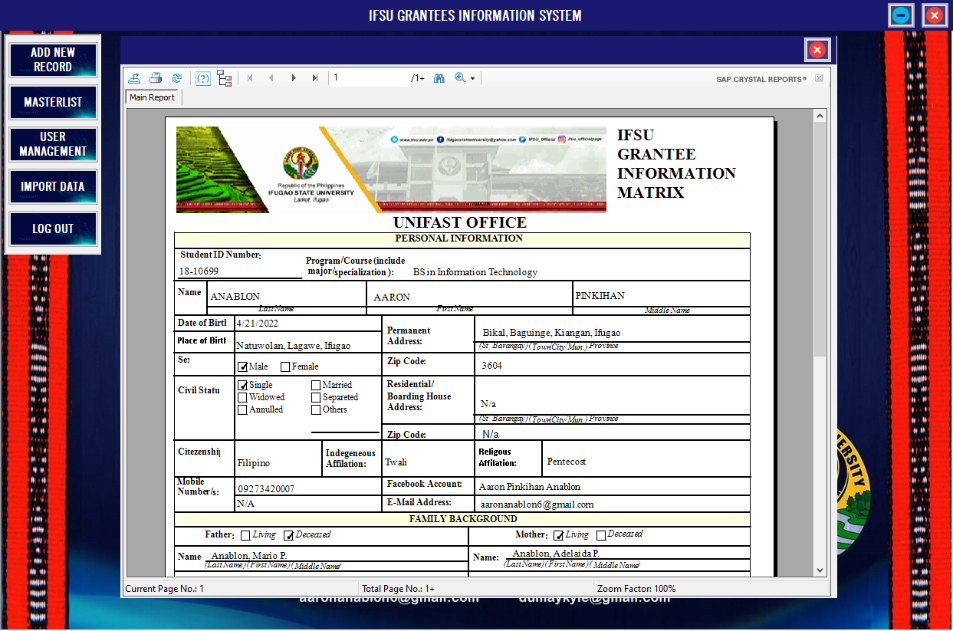
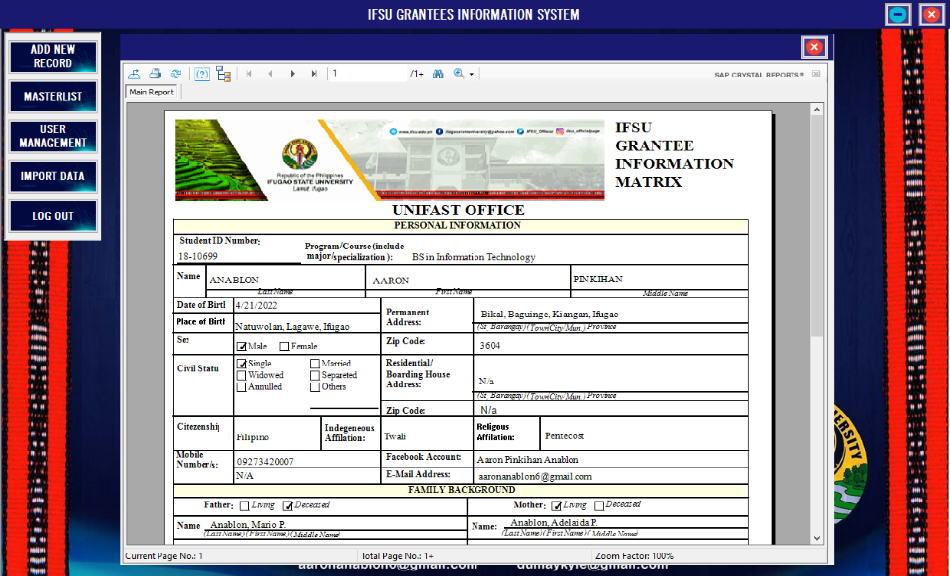
Edited the images

diff --git a/src/helpers/ProjectCards.js b/src/helpers/ProjectCards.js
@@ -3,6 +3,9 @@ import ecommerce from '../../public/Ecommerce.png'
 import matrix from '../../public/Matrix.png'
 import phoneEcommerce from '../../public/phoneEcommerce.png'
 import tabletEcommerce from '../../public/tabletEcommerce.png'
+import DesktopAiChatbot from '../../public/DesktopAiChatbot.png'
+import phoneAiChatbot from '../../public/phoneAiChatbot.png'
+import tabletAiChatbot from '../../public/tabletAiChatbot.png'
 
 const ProjectCards = [
     {
@@ -30,28 +33,12 @@ const ProjectCards = [
         desc: 'Grantee Information Matrix System. Developed using C# with different features including easy access of student files and support to printing hard copies of credentials. I developed this furing my OJT. The Application only supports Desktop.'
     },
     {
-        id: 3, name: 'Ecommerce',
-        url: 'https://moon-delivery.vercel.app',
-        desktop: ecommerce,
-        phone: ecommerce,
-        tablet: ecommerce,
-        desc: 'This is developed using MERN stack with different features including Rider and Seller web Application'
-    },
-    {
-        id: 4, name: 'Enrollment',
-        url: 'https://moon-delivery.vercel.app',
-        desktop: enrollment,
-        phone: enrollment,
-        tablet: enrollment,
-        desc: 'This is developed using C# with different features including SMS integration and and support to printing hard copies of grades and other school credentials.It is a Desktop Application.'
-    },
-    {
-        id: 5, name: 'Matrix',
-        url: 'https://moon-delivery.vercel.app',
-        desktop: matrix,
-        phone: matrix,
-        tablet: matrix,
-        desc: 'This is developed using C# with different features including easy access of student files and support to printing hard copies of credentials. It is a Desktop Application.'
+        id: 3, name: 'Ai Chatbot',
+        url: 'https://aaron-projects-ai-chatbot.vercel.app',
+        desktop: DesktopAiChatbot,
+        phone: phoneAiChatbot,
+        tablet: tabletAiChatbot,
+        desc: 'This is developed using Next Js and the OpenAi Api version 3.5. The website provides example of correct prompts and response to get the correct or desired output. Feel free to experiment ai chatbot prompts here.'
     },
 ]
 
